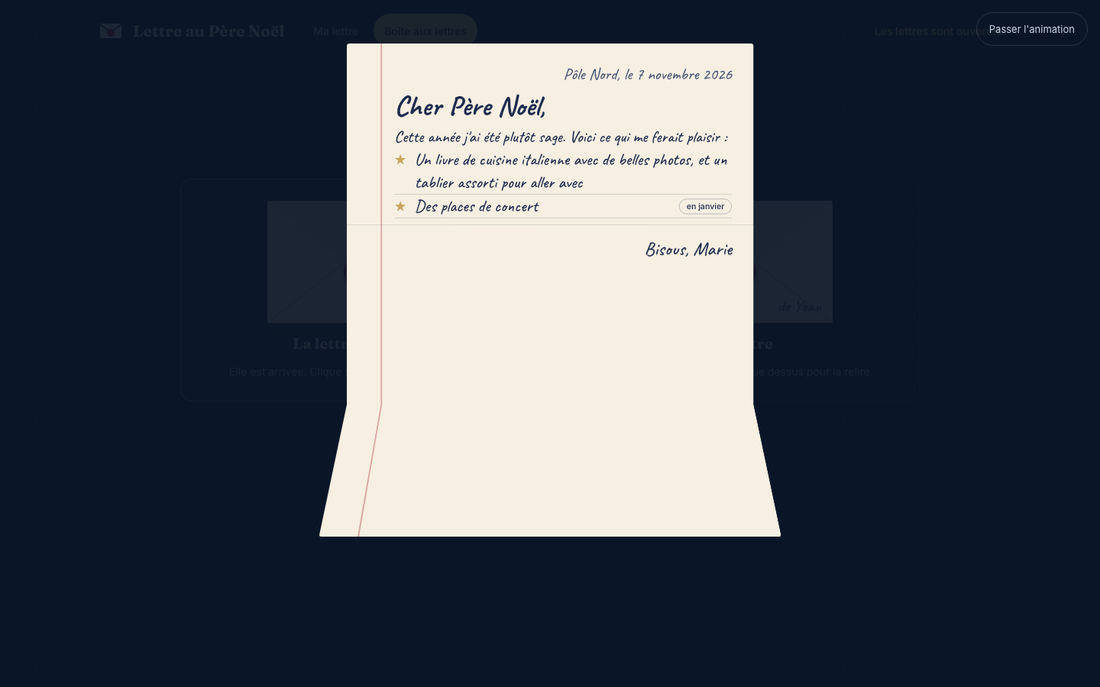
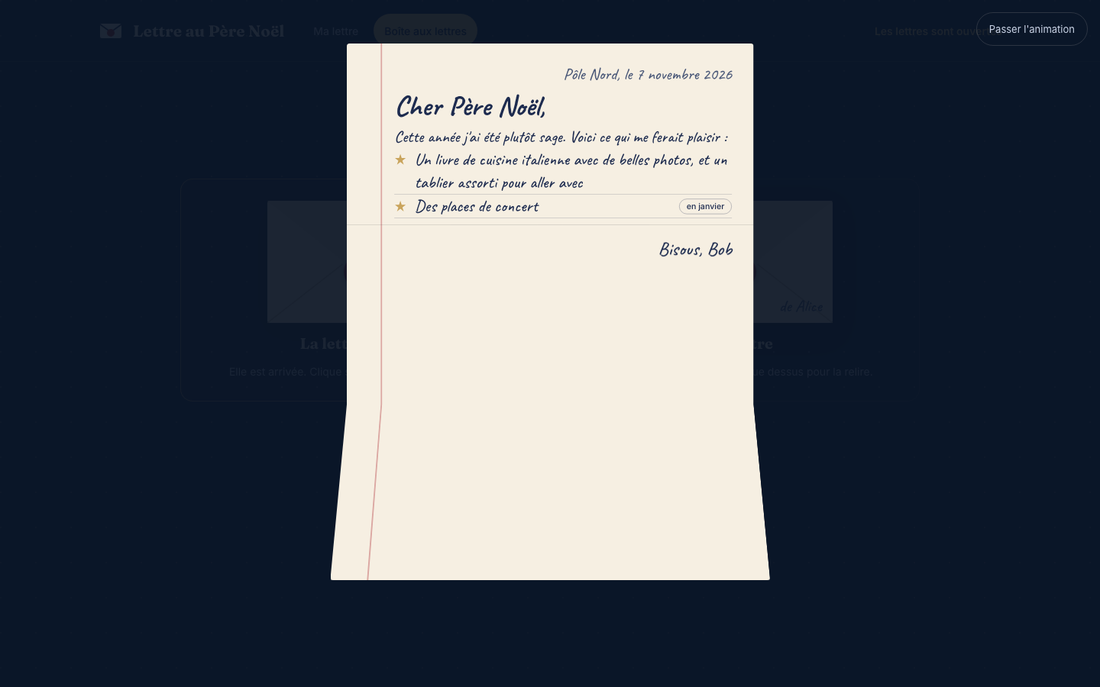
Corrections de revue : relance du mail, envoi, sauvegardes, données de test neutres
- POST /api/send relance la notification si le mail n'était pas parti,
  bouton « Renvoyer le mail » dans la boîte aux lettres
- plus de bouton « Reprendre » inactif après le clic sur « Envoyer »
- sauvegardes de brouillon sérialisées, erreurs de rechargement gérées
- en-têtes de sécurité sur l'API, limite de taille sur le corps réel
- lien du mail sur l'origine du site si PUBLIC_URL manque
- en-tête « dans 1 jour » aligné sur le compte à rebours
- tests et fixtures avec Alice et Bob, scénario e2e des cas limites
- halo doré remplacé par une ombre neutre

Changed region(s): [[0.2782, 0.6114, 0.7109, 0.8559], [0.5873, 0.3362, 0.68, 0.3974]]

diff --git a/public/app.js b/public/app.js
@@ -211,7 +211,7 @@ function updatePill() {
   }
   const days = Math.floor(ms / 86400000);
   const hours = Math.floor(ms / 3600000);
-  const left = days > 1 ? `dans ${days} jours` : hours > 1 ? `dans ${hours} heures` : "dans moins d'une heure";
+  const left = days > 1 ? `dans ${days} jours` : days === 1 ? "dans 1 jour" : hours > 1 ? `dans ${hours} heures` : "dans moins d'une heure";
   pill.replaceChildren("Ouverture des lettres le ", h("strong", {}, DAY.format(new Date(state.revealAt))), ` · ${left}`);
 }
 
@@ -438,12 +438,15 @@ function scheduleSave(status) {
   saveTimer = setTimeout(() => save(status), 700);
 }
 
+// Les sauvegardes passent l'une après l'autre : un vieux brouillon n'écrase jamais un plus récent.
 async function save(status) {
   saveTimer = null;
-  const run = (async () => {
+  const previous = saving || Promise.resolve();
+  const run = previous.then(async () => {
+    const body = payload();
     try {
-      const r = await api("/api/letter", { method: "PUT", body: payload() });
-      state.mine.letter = payload();
+      const r = await api("/api/letter", { method: "PUT", body });
+      state.mine.letter = body;
       state.mine.updatedAt = r.updatedAt;
       if (status) {
         status.classList.remove("error");
@@ -456,13 +459,17 @@ async function save(status) {
         status.textContent = e.message;
       }
       if (e.status === 409) {
-        await loadState();
-        view = "box";
-        render();
+        try {
+          await loadState();
+          view = "box";
+          render();
+        } catch {
+          // l'erreur est déjà affichée
+        }
       }
       return false;
     }
-  })();
+  });
   saving = run;
   return run;
 }
@@ -674,6 +681,8 @@ async function foldAndSend(btn, status) {
   }
 
   let result;
+  // Une fois « Envoyer » cliqué, on ne peut plus reprendre la lettre : seul le bouton d'envoi reste.
+  stageActions.replaceChildren(choice, document.getElementById("stage-hint"));
   for (;;) {
     choice.disabled = true;
     choice.lastChild.textContent = "Envoi au Pôle Nord…";
@@ -685,6 +694,12 @@ async function foldAndSend(btn, status) {
         result = { mail: "already" };
         break;
       }
+      if (e.status === 400) {
+        document.getElementById("stage-hint").textContent = e.message;
+        choice.remove();
+        stageActions.append(h("button", { type: "button", class: "btn btn-ghost", onclick: closeStage }, "Corriger ma lettre"));
+        return;
+      }
       document.getElementById("stage-hint").textContent = e.message;
       choice.disabled = false;
       choice.lastChild.textContent = "Réessayer l'envoi";
@@ -694,7 +709,11 @@ async function foldAndSend(btn, status) {
   stageActions.replaceChildren();
   await flyAway(sc);
   closeStage();
-  await loadState();
+  try {
+    await loadState();
+  } catch {
+    state.mine.sentAt = result.sentAt || new Date(now()).toISOString();
+  }
   view = "box";
   render();
   if (result.mail === "sent" || result.mail === "logged") toast(`Lettre envoyée au Père Noël. ${partner} a reçu un mail.`);
@@ -714,7 +733,8 @@ function renderBox() {
     ? h("div", { class: "slot" },
         h("button", { type: "button", class: "env-btn", "aria-label": "Relire ta lettre", onclick: () => go("read-mine") }, envSmall({ label: `de ${me}` })),
         h("h2", {}, "Ta lettre"),
-        h("p", {}, `Envoyée le ${DAY.format(new Date(state.mine.sentAt))}. Clique dessus pour la relire.`))
+        h("p", {}, `Envoyée le ${DAY.format(new Date(state.mine.sentAt))}. Clique dessus pour la relire.`),
+        mailRetry())
     : h("div", { class: "slot" },
         h("div", { class: "env-btn" }, envSmall({ empty: true })),
         h("h2", {}, "Ta lettre"),
@@ -758,6 +778,33 @@ function renderBox() {
 
   app.replaceChildren(h("section", { class: "box" }, h("div", {}, head), countdown, h("div", { class: "slots" }, theirs, mine)));
   if (countdown) fillCountdown(countdown);
+}
+
+// Le mail de notification n'est pas parti : on propose de le renvoyer.
+function mailRetry() {
+  if (["sent", "logged", "skipped"].includes(state.mine.mailStatus)) return null;
+  const btn = h("button", {
+    type: "button",
+    class: "btn btn-ghost",
+    onclick: async () => {
+      btn.disabled = true;
+      try {
+        const r = await api("/api/send", { method: "POST", body: state.mine.letter });
+        state.mine.mailStatus = r.mail;
+      } catch (e) {
+        if (e.status !== 409) {
+          toast(e.message);
+          btn.disabled = false;
+          return;
+        }
+        state.mine.mailStatus = "sent";
+      }
+      if (state.mine.mailStatus === "sent" || state.mine.mailStatus === "logged") toast(`Mail envoyé à ${state.partner.name}.`);
+      else toast("Le mail ne part toujours pas. Réessaie plus tard.");
+      render();
+    },
+  }, `Renvoyer le mail à ${state.partner.name}`);
+  return h("div", {}, h("p", {}, `Le mail pour ${state.partner.name} n'est pas parti.`), btn);
 }
 
 async function reveal() {

diff --git a/src/worker.js b/src/worker.js
@@ -55,7 +55,7 @@ export class LettersStore extends DurableObject {
   // Scelle la lettre. Deux envois concurrents : un seul gagne (le DO sérialise les appels).
   seal(person, letter) {
     const r = this.row(person);
-    if (r?.sent_at) return { error: "sealed", sentAt: r.sent_at };
+    if (r?.sent_at) return { error: "sealed", sentAt: r.sent_at, mailStatus: r.mail_status };
     const now = new Date().toISOString();
     this.sql.exec(
       "INSERT INTO letters (person, body, updated_at, sent_at) VALUES (?, ?, ?, ?) ON CONFLICT(person) DO UPDATE SET body = excluded.body, updated_at = excluded.updated_at, sent_at = excluded.sent_at",
@@ -72,13 +72,6 @@ export class LettersStore extends DurableObject {
   }
 }
 
-function json(data, status = 200) {
-  return new Response(JSON.stringify(data), {
-    status,
-    headers: { "content-type": "application/json; charset=utf-8", "cache-control": "no-store" },
-  });
-}
-
 const SECURITY_HEADERS = {
   "content-security-policy":
     "default-src 'self'; style-src 'self' https://fonts.googleapis.com; font-src https://fonts.gstatic.com; img-src 'self' data:; connect-src 'self'; base-uri 'none'; form-action 'none'; frame-ancestors 'none'",
@@ -87,6 +80,13 @@ const SECURITY_HEADERS = {
   "x-robots-tag": "noindex, nofollow",
   "permissions-policy": "camera=(), microphone=(), geolocation=()",
 };
+
+function json(data, status = 200) {
+  return new Response(JSON.stringify(data), {
+    status,
+    headers: { ...SECURITY_HEADERS, "content-type": "application/json; charset=utf-8", "cache-control": "no-store" },
+  });
+}
 
 function store(env) {
   return env.LETTERS.get(env.LETTERS.idFromName("lettres"));
@@ -97,14 +97,26 @@ function tokenOf(request) {
   return h.startsWith("Bearer ") ? h.slice(7).trim() : "";
 }
 
+const MAX_BODY = 64 * 1024;
+
 async function readJson(request) {
-  const len = Number(request.headers.get("content-length") || 0);
-  if (len > 64 * 1024) throw new LetterError("Lettre trop longue.");
+  if (Number(request.headers.get("content-length") || 0) > MAX_BODY) throw new LetterError("Lettre trop longue.");
+  const text = await request.text();
+  if (text.length > MAX_BODY) throw new LetterError("Lettre trop longue.");
   try {
-    return await request.json();
+    return JSON.parse(text);
   } catch {
     throw new LetterError("Requête illisible.");
   }
+}
+
+const DELIVERED = new Set(["sent", "logged"]);
+
+async function notifyPartner(env, db, me, meP, youP) {
+  const mail = await notify(env, { from: meP, to: youP }, { connect, fetch: (...args) => fetch(...args) });
+  await db.markMail(me, mail.status, mail.error);
+  if (mail.error) console.error(`[mail] échec : ${mail.error}`);
+  return mail.status;
 }
 
 async function api(request, env, url) {
@@ -112,6 +124,8 @@ async function api(request, env, url) {
   if (!me) return json({ error: "Lien inconnu. Utilise le lien personnel reçu." }, 401);
   const you = other(me);
   const db = store(env);
+  // Sans PUBLIC_URL, le lien du mail reprend l'adresse du site appelé.
+  if (!env.PUBLIC_URL) env = { ...env, PUBLIC_URL: url.origin };
   const meP = profile(env, me);
   const youP = profile(env, you);
 
@@ -126,7 +140,7 @@ async function api(request, env, url) {
       me: { name: meP.name },
       partner: { name: youP.name },
       mine: mine
-        ? { letter: mine.letter, sentAt: mine.sentAt, updatedAt: mine.updatedAt }
+        ? { letter: mine.letter, sentAt: mine.sentAt, updatedAt: mine.updatedAt, mailStatus: mine.mailStatus || null }
         : { letter: emptyLetter(meP.name), sentAt: null, updatedAt: null },
       theirs: {
         sentAt: theirs?.sentAt || null,
@@ -147,11 +161,12 @@ async function api(request, env, url) {
     const letter = cleanLetter(await readJson(request));
     assertSendable(letter);
     const r = await db.seal(me, letter);
-    if (r.error) return json({ error: "Ta lettre est déjà envoyée et scellée.", sentAt: r.sentAt }, 409);
-    const mail = await notify(env, { from: meP, to: youP }, { connect, fetch: (...args) => fetch(...args) });
-    await db.markMail(me, mail.status, mail.error);
-    if (mail.error) console.error(`[mail] échec : ${mail.error}`);
-    return json({ sentAt: r.sentAt, mail: mail.status });
+    if (r.error) {
+      // Déjà scellée : si le mail n'était pas parti (réponse perdue, panne SMTP), on le relance.
+      if (DELIVERED.has(r.mailStatus)) return json({ error: "Ta lettre est déjà envoyée et scellée.", sentAt: r.sentAt, mail: r.mailStatus }, 409);
+      return json({ sentAt: r.sentAt, mail: await notifyPartner(env, db, me, meP, youP), resent: true });
+    }
+    return json({ sentAt: r.sentAt, mail: await notifyPartner(env, db, me, meP, youP) });
   }
 
   return json({ error: "Introuvable." }, 404);

diff --git a/public/app.css b/public/app.css
@@ -419,7 +419,7 @@ main { outline: none; }
 
 @keyframes glow {
   0%, 100% { filter: drop-shadow(0 12px 18px rgba(0, 0, 0, 0.35)); transform: translateY(0); }
-  50% { filter: drop-shadow(0 0 22px rgba(231, 199, 127, 0.55)); transform: translateY(-4px); }
+  50% { filter: drop-shadow(0 20px 22px rgba(0, 0, 0, 0.45)); transform: translateY(-6px); }
 }
 
 .slot h2 { margin: 0; font-family: var(--serif); font-size: 20px; }

diff --git a/AGENTS.md b/AGENTS.md
@@ -15,7 +15,7 @@ You are an AI coding agent working on **Lettre au Père Noël**: a Cloudflare Wo
 
 ## Rules
 
-- **Never** commit `.dev.vars`, real names, email addresses, tokens or SMTP credentials. They are Worker secrets (`wrangler secret put`). The repository is meant to be public.
+- **Never** commit `.dev.vars`, the two people's names or email addresses, tokens or SMTP credentials. They are Worker secrets (`wrangler secret put`). Tests and fixtures use Alice, Bob and `example.test`. The repository is meant to be public. The sender address, domain and SMTP host in `wrangler.jsonc` are the maintainer's public infrastructure, not personal data.
 - The server enforces the guarantees: a sent letter is frozen (HTTP 409), the partner letter is only returned once `isRevealed()` is true, links must be `http(s)`. Never move one of these checks to the browser only.
 - The Content-Security-Policy forbids inline `style` attributes and inline scripts. Set styles with classes, or with `element.style.x = …` from JS.
 - Render user text with `textContent` (the `h()` helper does this). Never `innerHTML` with letter content.

diff --git a/TESTING.md b/TESTING.md
@@ -16,7 +16,7 @@
 - Pliage en trois, glissement dans l'enveloppe, rabat, cachet. « Reprendre ma lettre » ramène à l'écriture sans rien envoyer.
 - « Envoyer au Père Noël » : envol, boîte aux lettres, toast. Un mail part vers l'autre personne avec **son** lien, jamais celui de l'expéditeur.
 - Après envoi : `PUT /api/letter` et `POST /api/send` répondent 409.
-- Échec SMTP : la lettre est quand même scellée, le toast le dit, Resend prend le relais si `RESEND_API_KEY` est défini.
+- Échec SMTP : la lettre est quand même scellée, le toast le dit, Resend prend le relais si `RESEND_API_KEY` est défini. La boîte aux lettres affiche « Renvoyer le mail » ; un nouvel `POST /api/send` relance la notification au lieu de répondre 409.
 
 ## Avant l'ouverture
 
